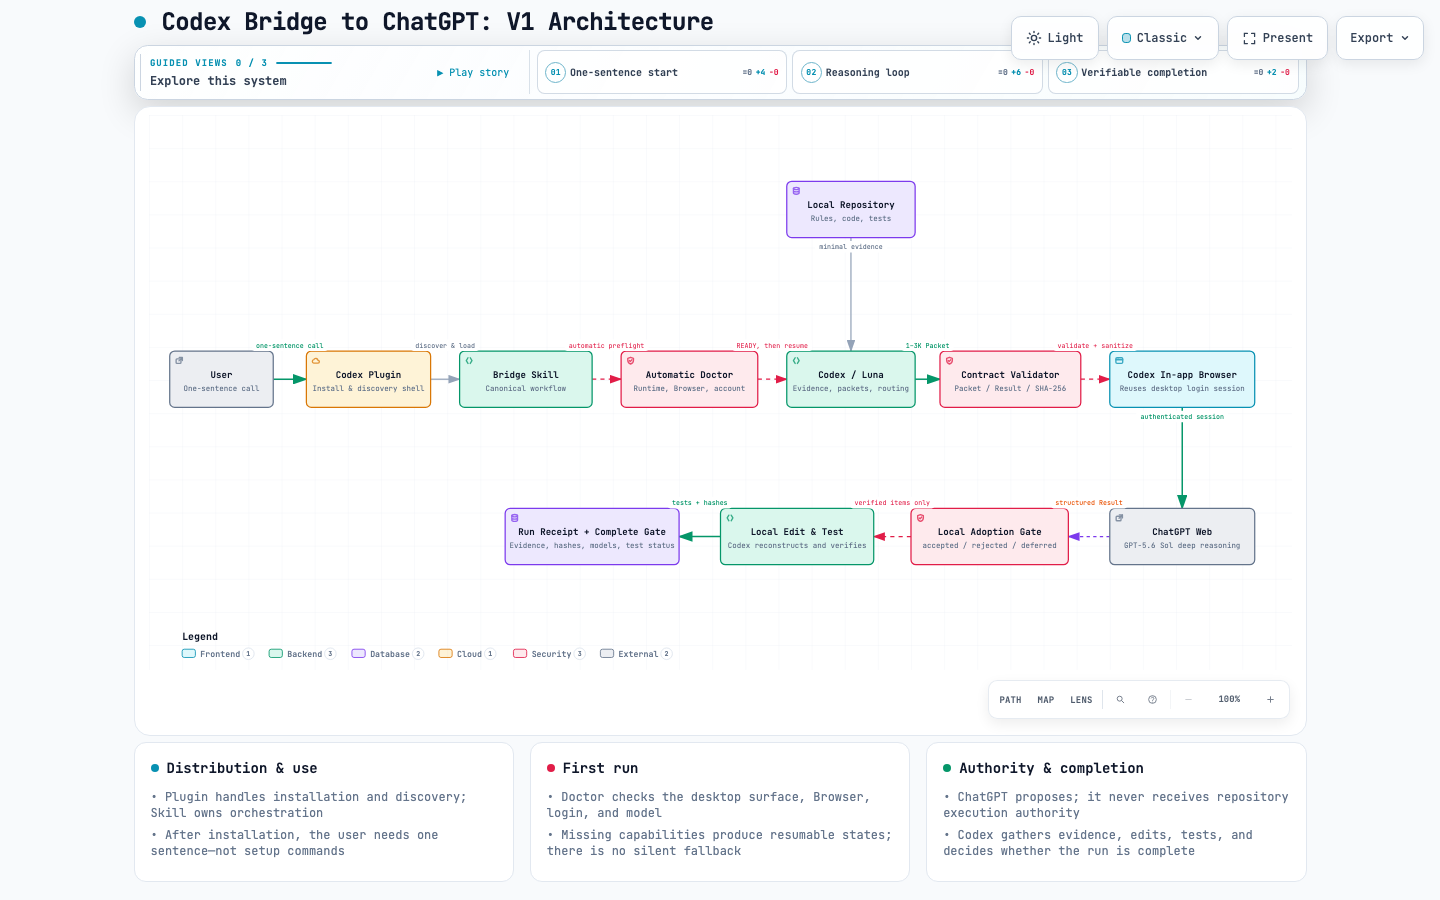
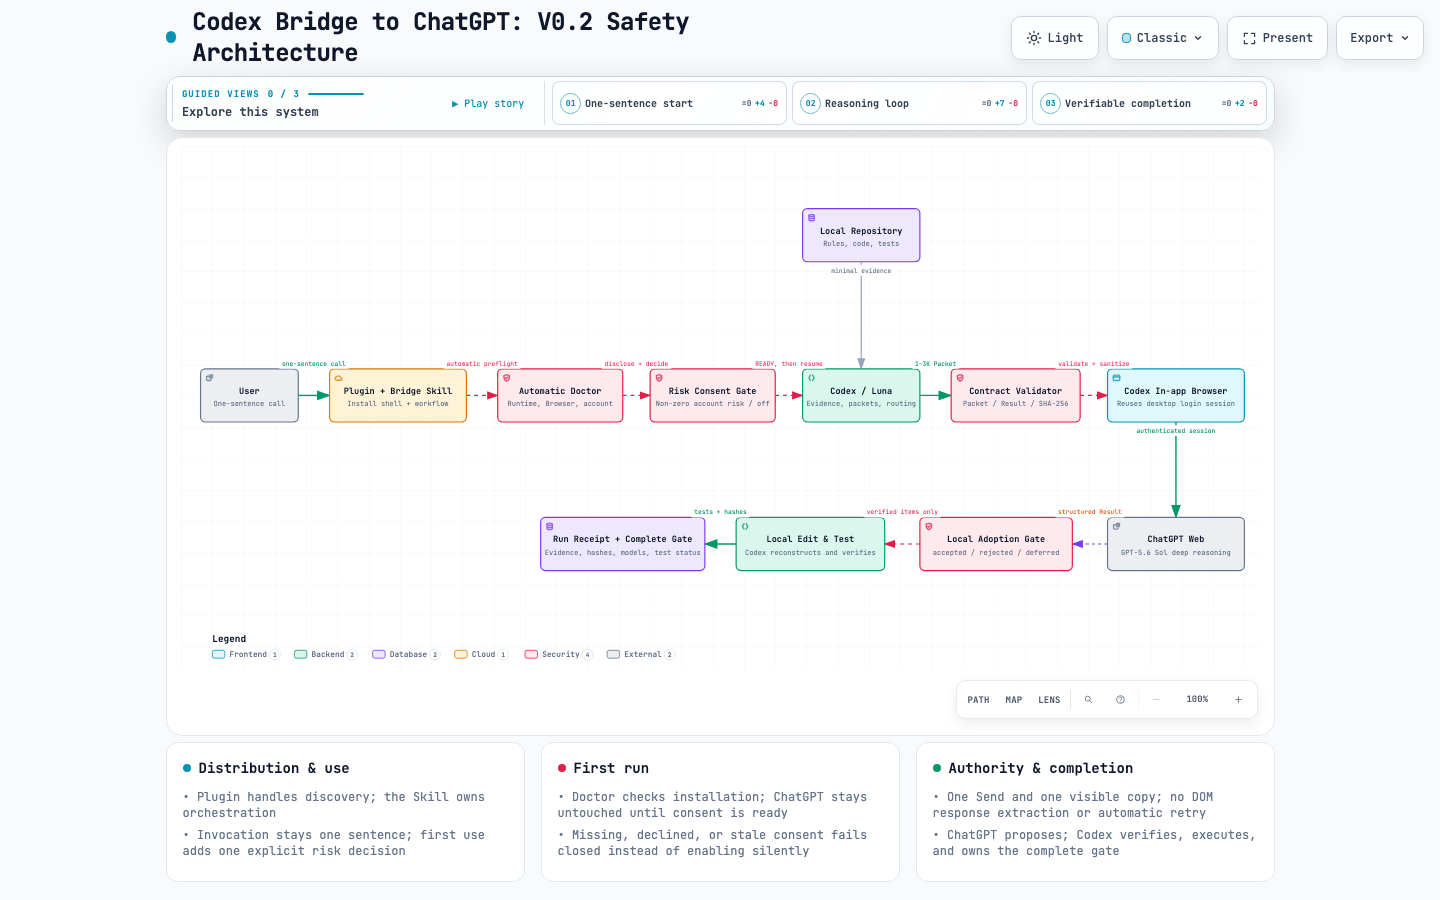
docs: refresh v0.2 safety architecture

diff --git a/docs/installation.md b/docs/installation.md
@@ -45,6 +45,8 @@ node scripts/automation-consent.mjs disable --json
 
 ## 卸载
 
-只移除 `$CODEX_HOME/skills/codex-bridge-chatgpt`。不要删除整个 `$CODEX_HOME`，其中可能包含其他 Skills、配置和会话。
+先在已安装 Skill 目录运行 `node scripts/automation-consent.mjs disable --json`，明确撤销自动桥接。授权状态与 Skill 安装目录分离；只移除 Skill 而不撤销状态，之后重新安装同一披露版本时仍会保持原决策。
+
+然后只移除 `$CODEX_HOME/skills/codex-bridge-chatgpt`。不要删除整个 `$CODEX_HOME`，其中可能包含其他 Skills、配置和会话。
 
 卸载后重启桌面 App 或新开任务，确认 Skill 不再出现在列表中。
